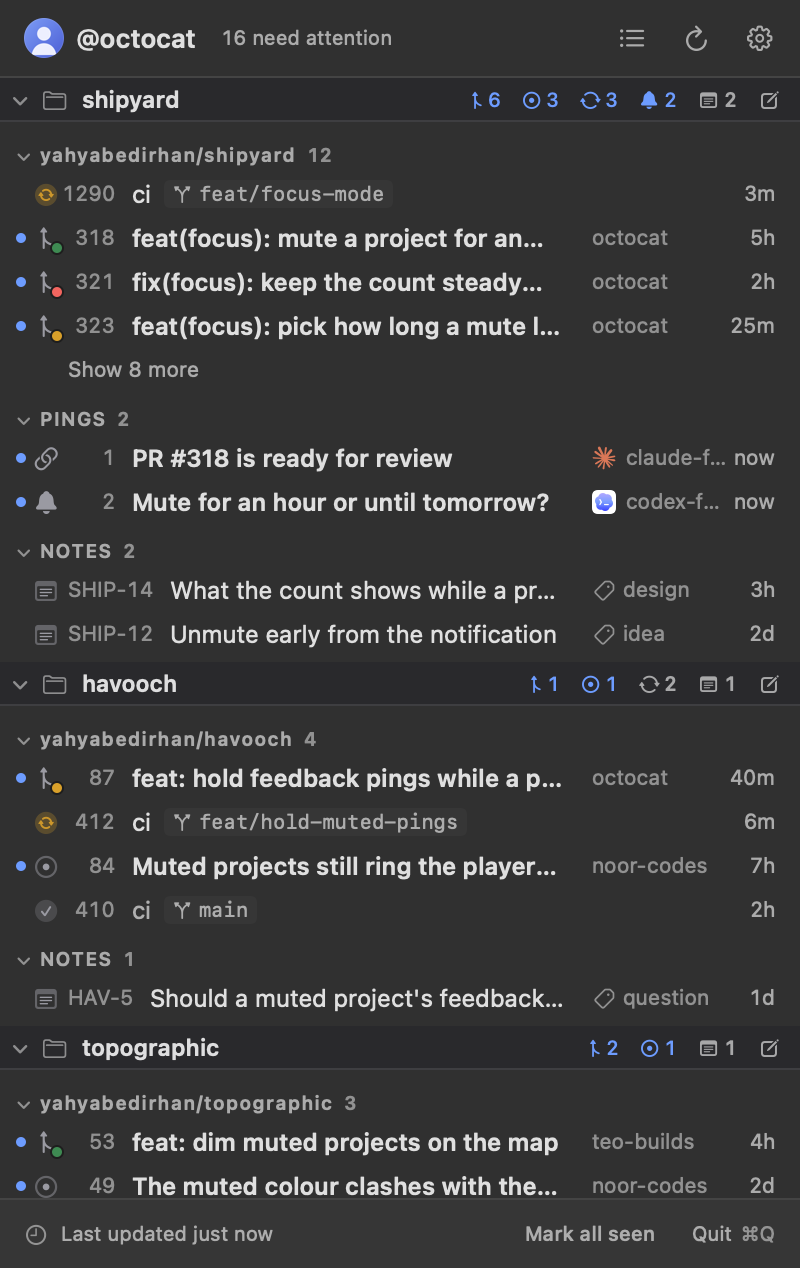
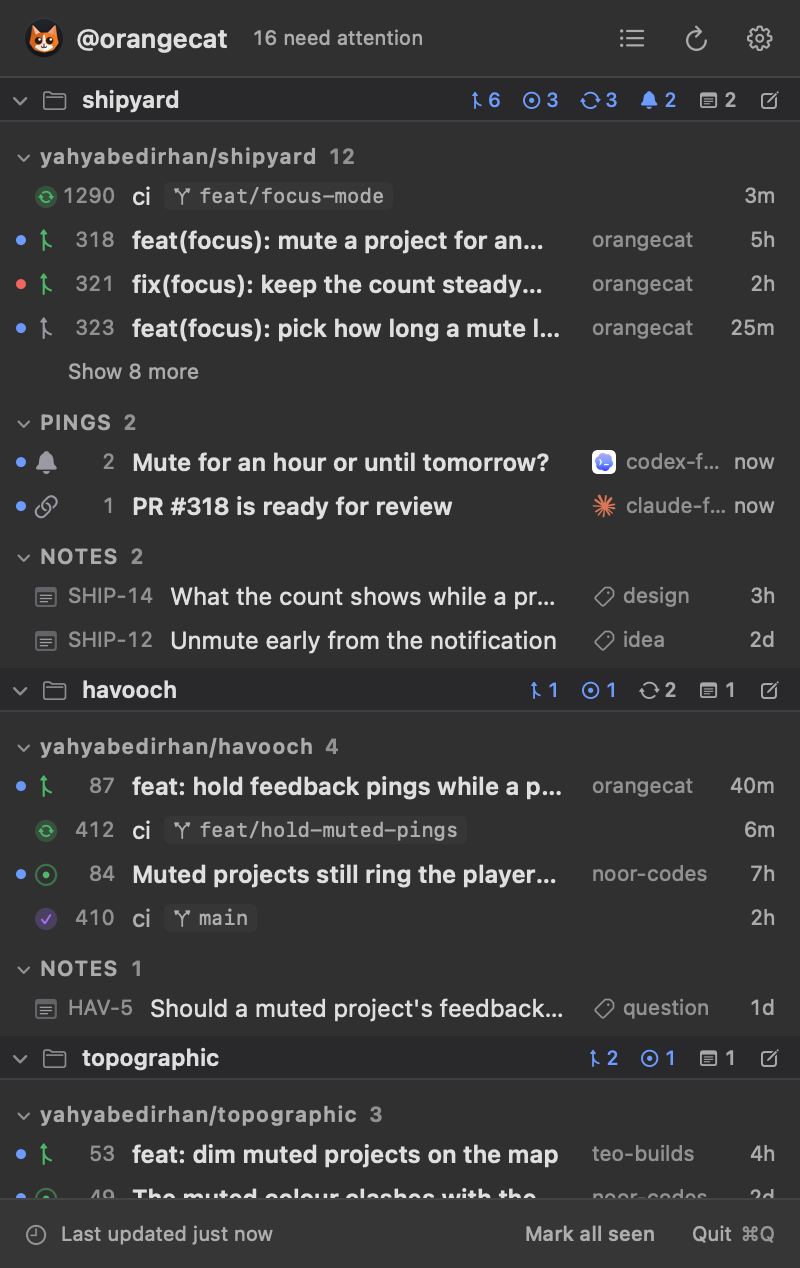
feat(shipyard): show the new screenshots, signed in as orangecat and yahyabedirhan
- panel-list-dark, panel-tabs-dark and preset-review-queue-dark come from yahyabedirhan/shipyard 2faa8ac, with the bigger list subheaders and the orangecat demo account
- hero.webp is composed again from landing-tabs-dark, signed in as yahyabedirhan, and landing-list-light, signed in as orangecat
- the review queue shot is 384 px tall now, and the hero's alt text names both accounts

diff --git a/src/data.js b/src/data.js
@@ -10,7 +10,7 @@ export const projects = [
     iconAlt: "shipyard's logo: a white sailboat with folded sails on two waves, on a dark graphite tile",
     line: 'Menu bar app for keeping up with your projects',
     viewsFirst: true, // screenshots, then the diagrams
-    // assets from yahyabedirhan/shipyard main at 619c8fc: logo and screenshots, which show made-up demo content;
+    // logo from yahyabedirhan/shipyard main at 619c8fc; screenshots from yahyabedirhan/shipyard 2faa8ac (#357), made-up demo content signed in as @orangecat or @yahyabedirhan;
     // hero.webp composed from the landing's two screenshots; the diagrams exported from the docs site at 2x
     about: 'A macOS menu bar app for keeping up with your projects while your agents work. Your pull requests, issues, workflow runs, pings from your agents and notes, grouped by project, in one list in the menu bar.',
     details: 'It notifies you when something happens, and your agents can ping you when they need you. They also edit its settings for you with the shipyard skill. Install it from the [site](https://shipyard.yahyapak.dev).',
@@ -21,7 +21,7 @@ export const projects = [
       { label: 'Releases', href: 'https://github.com/yahyabedirhan/shipyard/releases', icon: 'download' },
     ],
     hero: { src: '/shipyard/hero.webp', width: 2400, height: 1500,
-      alt: 'The shipyard panel twice, side by side: in dark mode in the tabs layout on the shipyard tab, and in the light Paper theme in the list layout, both showing pull requests, pings from agents, issues, runs and notes' },
+      alt: 'The shipyard panel twice, side by side: signed in as @yahyabedirhan in dark mode in the tabs layout on the shipyard tab, and as @orangecat in the Paper Light theme in the list layout, both showing pull requests, pings from agents, issues, runs and notes' },
     diagrams: [
       { title: 'How shipyard works', src: '/shipyard/how-it-works.png', width: 1280, height: 896, raw: true,
         alt: "How shipyard works: GitHub, your agents' pings from this Mac and from other machines, and your Notion notes feed one refresh in the app, which turns them into the menu bar's number, the panel's projects and macOS notifications.",
@@ -40,7 +40,7 @@ export const projects = [
           { src: '/shipyard/panel-list-dark.png', width: 800, height: 1268, alt: 'The list layout in dark mode: the shipyard, havooch and topographic projects, each grouped by repository, with their runs, pull requests, pings and notes' },
           { src: '/shipyard/panel-tabs-dark.png', width: 800, height: 954, alt: 'The tabs layout on the havooch tab: one pull request, one issue, a running and a finished workflow run, and one note' }] },
         { head: 'Review queue', text: 'A ready-made preset that lists only the pull requests waiting on your review, in any repository.', shots: [
-          { src: '/shipyard/preset-review-queue-dark.png', width: 800, height: 380, alt: 'The review-queue preset: two pull requests waiting on your review, one in yahyabedirhan/shipyard and one in yahyabedirhan/topographic' }] },
+          { src: '/shipyard/preset-review-queue-dark.png', width: 800, height: 384, alt: 'The review-queue preset: two pull requests waiting on your review, one in yahyabedirhan/shipyard and one in yahyabedirhan/topographic' }] },
       ],
     } },
   { id: 'havooch', name: 'havooch', state: 1, repo: 'https://github.com/yahyabedirhan/havooch',
